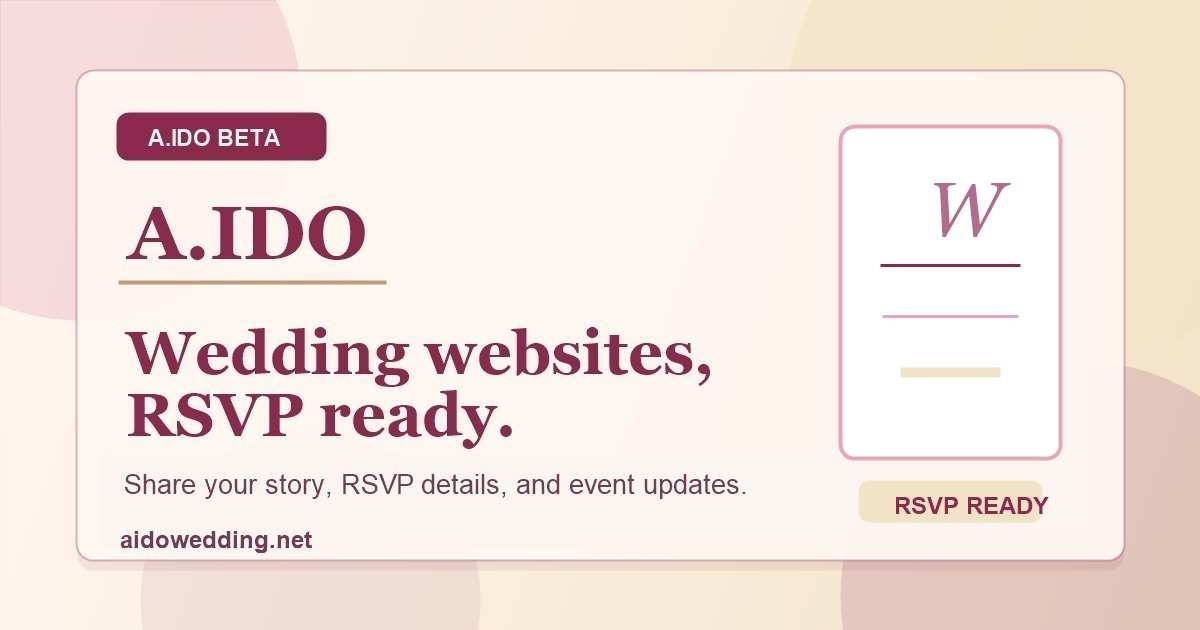
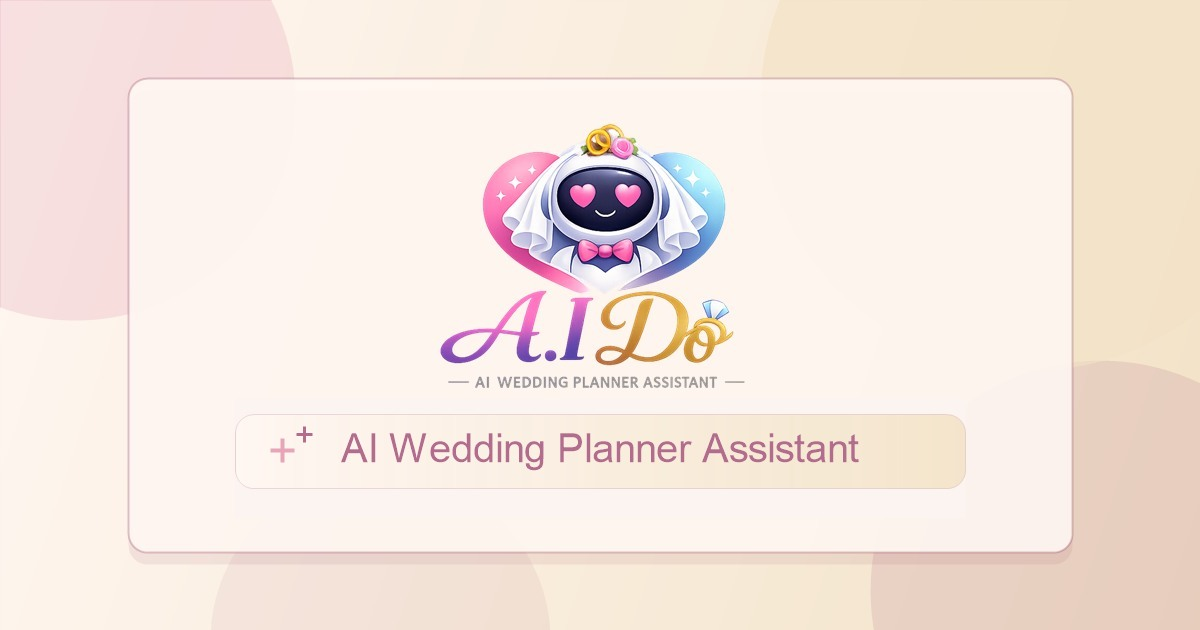
Simplify share preview branding

diff --git a/artifacts/aido/index.html b/artifacts/aido/index.html
@@ -3,16 +3,16 @@
   <head>
     <meta charset="UTF-8" />
     <meta name="viewport" content="width=device-width, initial-scale=1.0, maximum-scale=1" />
-    <title>A.IDO Wedding Websites</title>
-    <meta property="og:title" content="A.IDO Wedding Websites" />
-    <meta property="og:description" content="Wedding websites, RSVP ready. Share your story, schedule, registry, travel notes, and guest updates." />
+    <title>A.IDO - AI Wedding Planner Assistant</title>
+    <meta property="og:title" content="A.IDO - AI Wedding Planner Assistant" />
+    <meta property="og:description" content="Plan beautifully with your AI wedding planning assistant." />
     <meta property="og:image" content="https://aidowedding.net/opengraph-2026.jpg" />
     <meta property="og:image:width" content="1200" />
     <meta property="og:image:height" content="630" />
     <meta property="og:type" content="website" />
     <meta name="twitter:card" content="summary_large_image" />
-    <meta name="twitter:title" content="A.IDO Wedding Websites" />
-    <meta name="twitter:description" content="Wedding websites, RSVP ready. Share your story, schedule, registry, travel notes, and guest updates." />
+    <meta name="twitter:title" content="A.IDO - AI Wedding Planner Assistant" />
+    <meta name="twitter:description" content="Plan beautifully with your AI wedding planning assistant." />
     <meta name="twitter:image" content="https://aidowedding.net/opengraph-2026.jpg" />
     <link rel="icon" type="image/png" href="/logo.png" />
     <link rel="preconnect" href="https://fonts.googleapis.com">